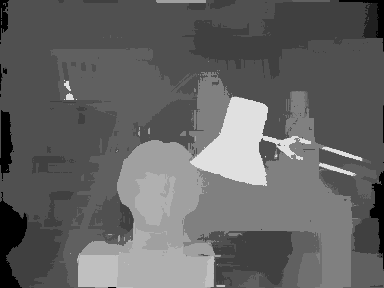
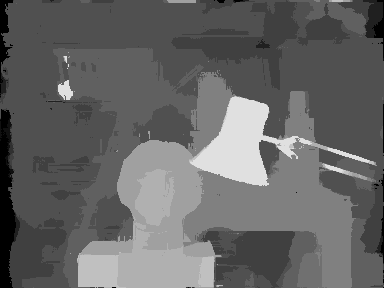
update hw4

diff --git a/homework4/computeDisp.py b/homework4/computeDisp.py
@@ -21,25 +21,25 @@ def computeDisp(Il, Ir, max_disp):
     # [Tips] Census cost = Local binary pattern -> Hamming distance
     # [Tips] Set costs of out-of-bound pixels = cost of closest valid pixel  
     # [Tips] Compute cost both "Il to Ir" and "Ir to Il" for later left-right consistency
-    Il_pattern = np.zeros((h, w, window_size * window_size, 1), dtype=np.bool)
-    Ir_pattern = np.zeros((h, w, window_size * window_size, 1), dtype=np.bool)
+    Il_pattern = np.zeros((h, w, window_size * window_size, 1)).astype(np.bool)
+    Ir_pattern = np.zeros((h, w, window_size * window_size, 1)).astype(np.bool)
     for i, j in itertools.product(range(h), range(w)):
         Il_pattern[i, j] = (Il_padding[i: i + window_size, j: j + window_size] < Il_padding[i + padding_size, j + padding_size]).reshape(-1, 1)
         Ir_pattern[i, j] = (Ir_padding[i: i + window_size, j: j + window_size] < Ir_padding[i + padding_size, j + padding_size]).reshape(-1, 1)
 
-    Il_cost = np.ones((h, w, max_disp + 1), dtype=np.float32) * (window_size ** 2)
-    Ir_cost = np.ones((h, w, max_disp + 1), dtype=np.float32) * (window_size ** 2)
+    Il_cost = np.ones((h, w, max_disp + 1)).astype(np.float32) * (window_size ** 2)
+    Ir_cost = np.ones((h, w, max_disp + 1)).astype(np.float32) * (window_size ** 2)
     
     for i, j in itertools.product(range(h), range(w)):
-        Il_cost[i, j, :j + 1] = np.logical_xor(Il_pattern[i, j], Ir_pattern[i, j::-1])[:max_disp+1].sum(-1).sum(-1)
-        Ir_cost[i, j, :w - j] = np.logical_xor(Ir_pattern[i, j], Il_pattern[i, j:w:])[:max_disp+1].sum(-1).sum(-1)
+        Il_cost[i, j, :j + 1] = np.logical_xor(Il_pattern[i, j], Ir_pattern[i, j::-1])[:max_disp + 1].sum(-1).sum(-1)
+        Ir_cost[i, j, :w - j] = np.logical_xor(Ir_pattern[i, j], Il_pattern[i, j:w:])[:max_disp + 1].sum(-1).sum(-1)
 
     # >>> Cost Aggregation
     # TODO: Refine the cost according to nearby costs
     # [Tips] Joint bilateral filter (for the cost of each disparty)
     for shift in range(max_disp + 1):
-        Il_cost[:, :, shift] = xip.jointBilateralFilter(Il_gray, Il_cost[:, :, shift], -1, 3, 9)
-        Ir_cost[:, :, shift] = xip.jointBilateralFilter(Ir_gray, Ir_cost[:, :, shift], -1, 3, 9)
+        Il_cost[:, :, shift] = xip.jointBilateralFilter(Il_gray, Il_cost[:, :, shift], 12, 0.5, 12)
+        Ir_cost[:, :, shift] = xip.jointBilateralFilter(Ir_gray, Ir_cost[:, :, shift], 12, 0.5, 12)
 
     # >>> Disparity Optimization
     # TODO: Determine disparity based on estimated cost.
@@ -68,6 +68,6 @@ def computeDisp(Il, Ir, max_disp):
                     Il_labels[i, j] = min(Il_labels[i, j], Il_labels[i, k])
                     break
 
-    labels = xip.weightedMedianFilter(Il.astype(np.uint8), Il_labels.astype(np.float32), 18, 1)
+    labels = xip.weightedMedianFilter(Il.astype(np.uint8), Il_labels.astype(np.float32), 12, 24)
 
     return labels.astype(np.uint8)
